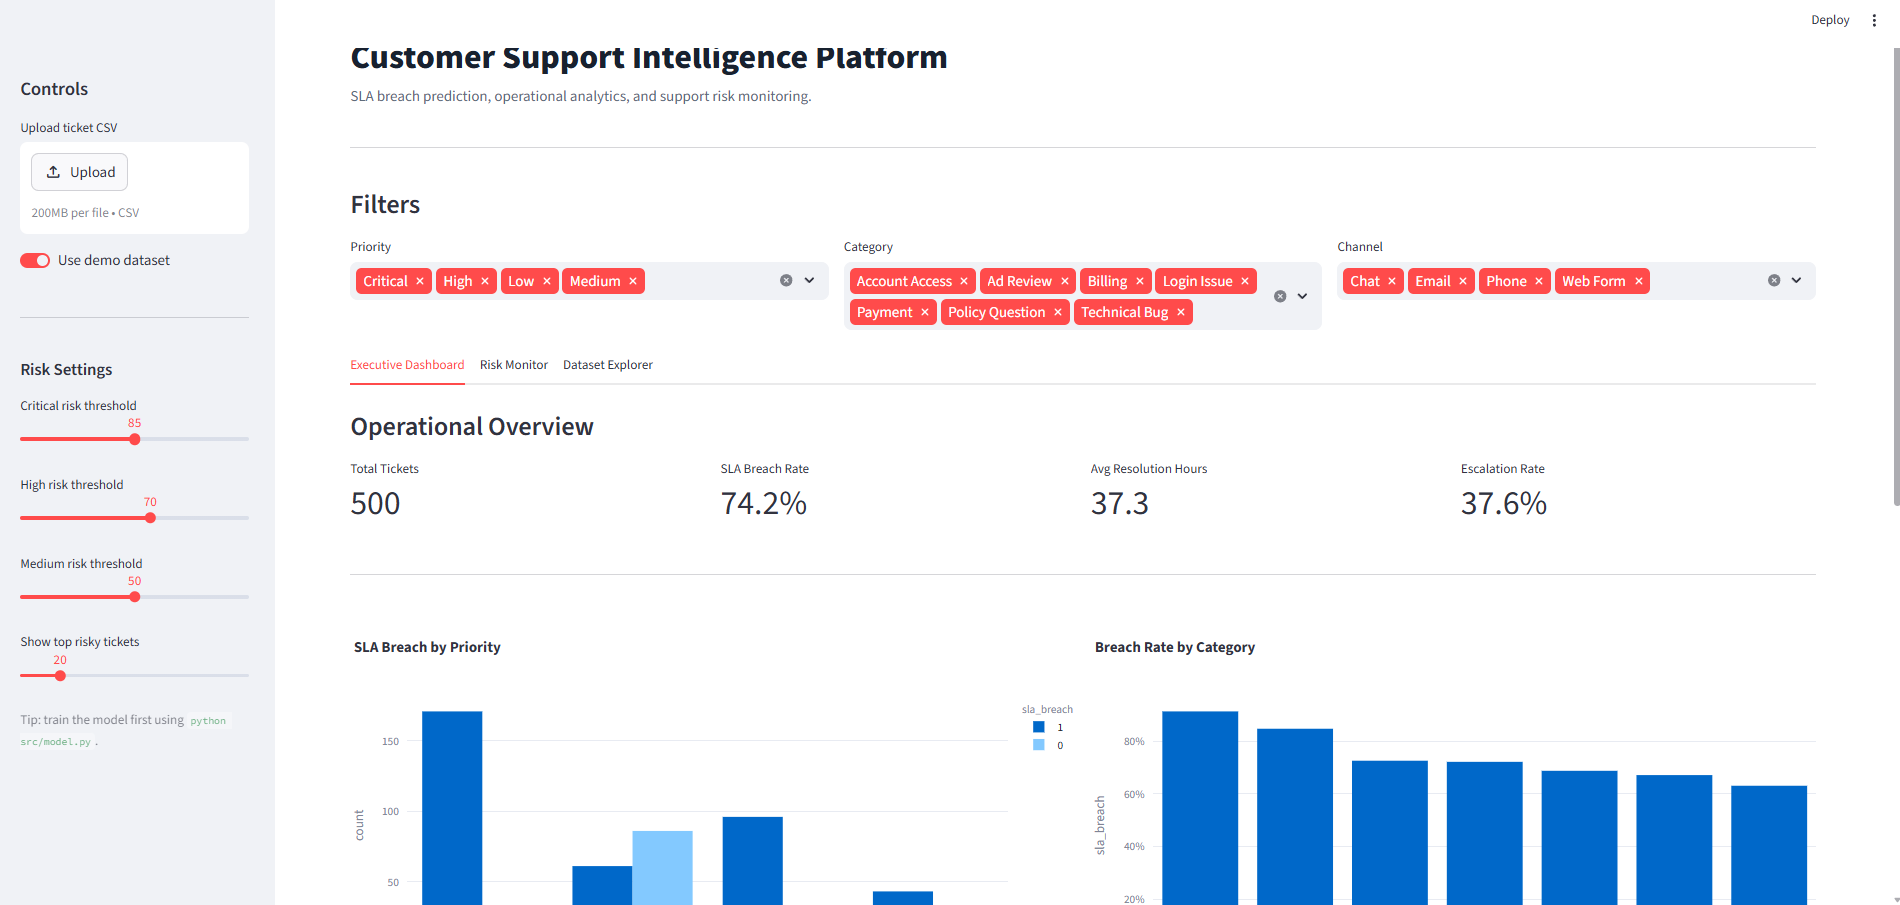
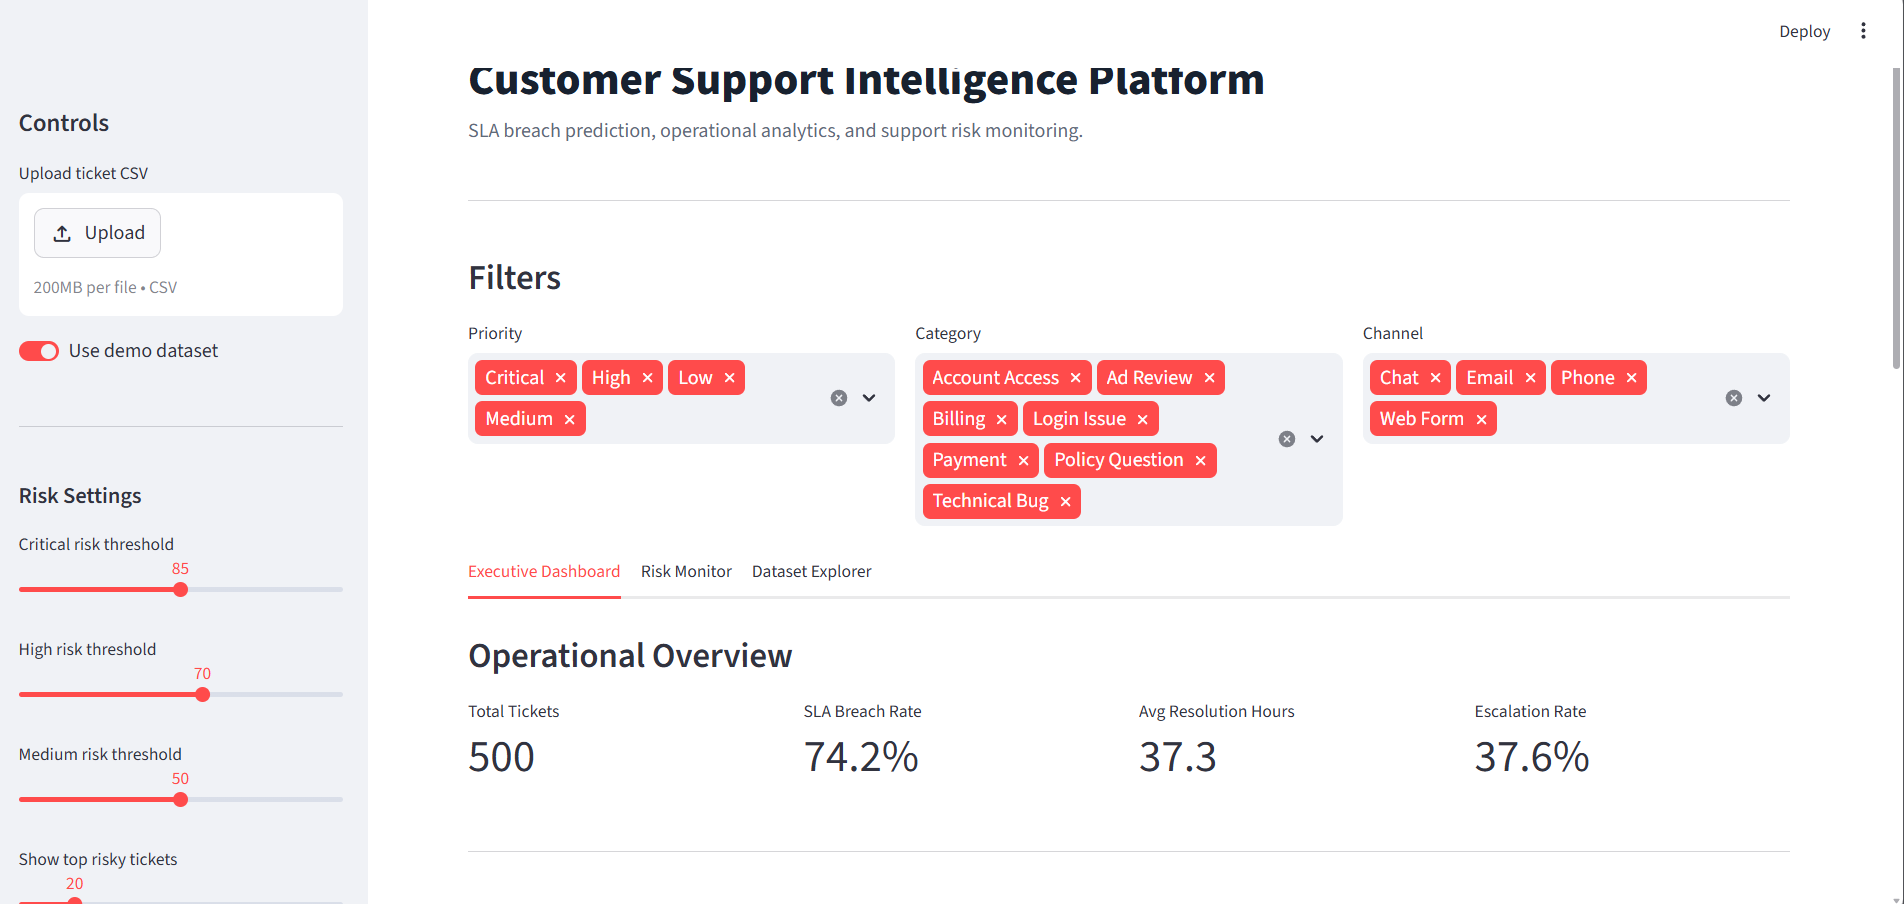
Add model training controls and updated dashboard screenshots

diff --git a/app/streamlit_app.py b/app/streamlit_app.py
@@ -13,7 +13,7 @@ sys.path.append(str(PROJECT_ROOT))
 
 from src.data_cleaning import clean_data
 from src.feature_engineering import create_features
-
+from src.model import train_model
 
 # ===============================
 # Page Configuration
@@ -33,7 +33,7 @@ st.set_page_config(
 MODEL_PATH = PROJECT_ROOT / "models/sla_breach_model.pkl"
 DEMO_DATA_PATH = PROJECT_ROOT / "data/raw/support_tickets.csv"
 MODEL_METRICS_PATH = PROJECT_ROOT / "models/model_metrics.txt"
-
+PROCESSED_DATA_PATH = PROJECT_ROOT / "data/processed/cleaned_tickets.csv"
 # ===============================
 # Styling
 # ===============================
@@ -136,6 +136,20 @@ def load_model():
     if MODEL_PATH.exists():
         return joblib.load(MODEL_PATH)
     return None
+def train_demo_model_from_app():
+    """
+    Trains the demo SLA breach prediction model from the included sample dataset.
+    This is used by the Streamlit app when the model file is missing or needs refresh.
+    """
+    PROCESSED_DATA_PATH.parent.mkdir(parents=True, exist_ok=True)
+
+    cleaned_df = clean_data(str(DEMO_DATA_PATH))
+    cleaned_df.to_csv(PROCESSED_DATA_PATH, index=False)
+
+    train_model()
+
+    load_model.clear()
+    load_model_metrics.clear()
 @st.cache_data
 def load_model_metrics():
     if not MODEL_METRICS_PATH.exists():
@@ -325,7 +339,21 @@ with st.sidebar:
         value=20,
     )
 
-    st.caption("Tip: train the model first using `python src/model.py`.")
+    st.markdown("### Model Controls")
+
+    if st.button("Train / Refresh Model", use_container_width=True):
+        with st.spinner("Training model using the demo support ticket dataset..."):
+            try:
+                train_demo_model_from_app()
+                st.success("Model trained successfully. Refreshing dashboard...")
+                st.rerun()
+            except Exception as e:
+                st.error(f"Model training failed: {e}")
+
+    if MODEL_PATH.exists():
+        st.success("Model is ready")
+    else:
+        st.warning("Model is not trained yet")
 
 
 # ===============================
